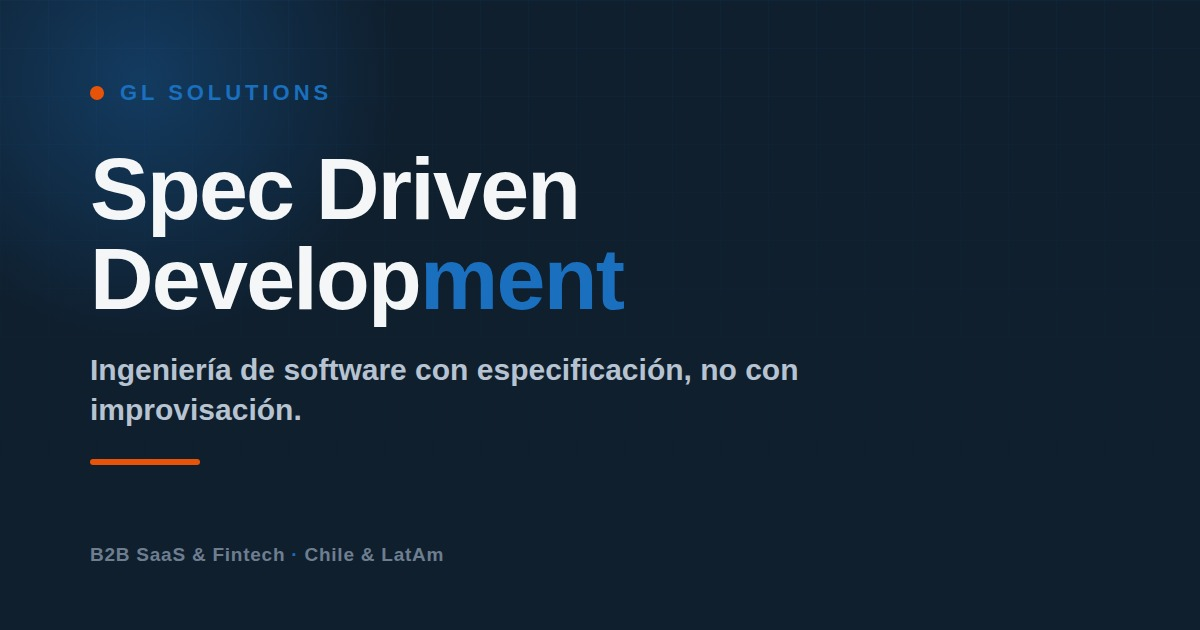
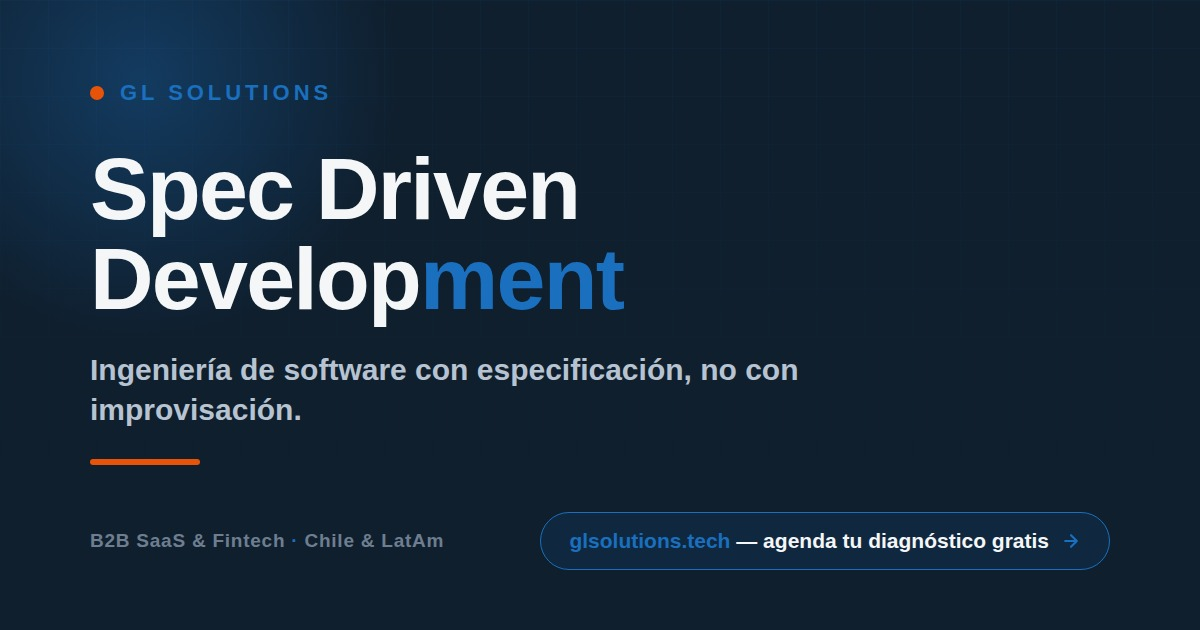
Update index.html mejoras seo, mejoras en og image

Changed region(s): [[0.4625, 0.8143, 0.925, 0.9048], [0.0617, 0.8444, 0.37, 0.9048]]

diff --git a/index.html b/index.html
@@ -8,7 +8,8 @@
   <link rel="canonical" href="https://www.glsolutions.tech/" />
   <meta property="og:type" content="website" />
   <meta property="og:title" content="GL Solutions — Software para Startups B2B SaaS y Fintech" />
-  <meta property="og:description" content="Software que puedes entender, transferir y escalar. Spec Driven Development para startups B2B SaaS y Fintech en etapa seed, Chile y LatAm." />
+  <meta property="og:description" content="Software que puedes entender, transferir y escalar. SDD para startups B2B SaaS y Fintech en etapa seed, Chile y LatAm." />
+  <meta property="og:site_name" content="GL Solutions" />
   <meta property="og:url" content="https://www.glsolutions.tech/" />
   <meta property="og:image" content="https://www.glsolutions.tech/og-image.jpg" />
   <meta property="og:image:width" content="1200" />